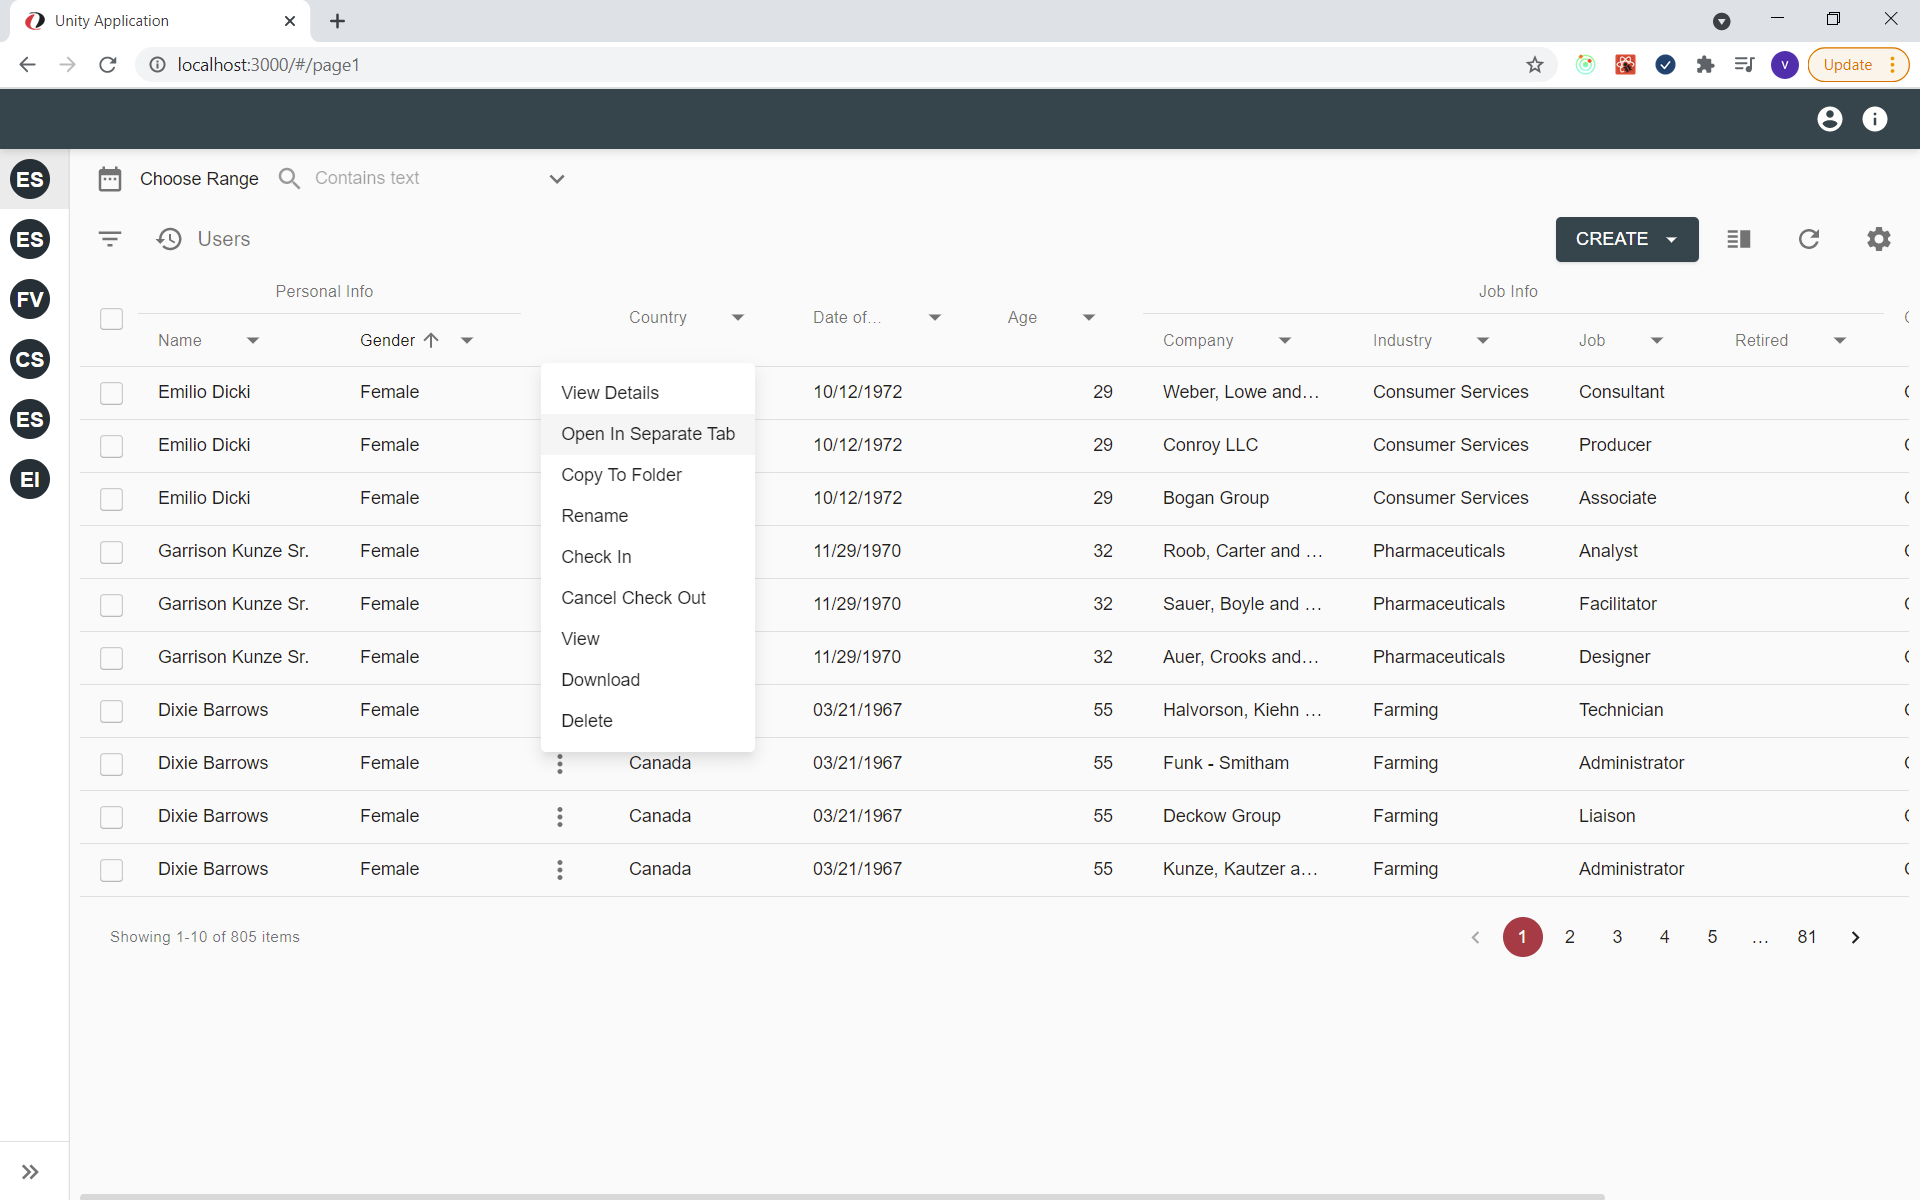
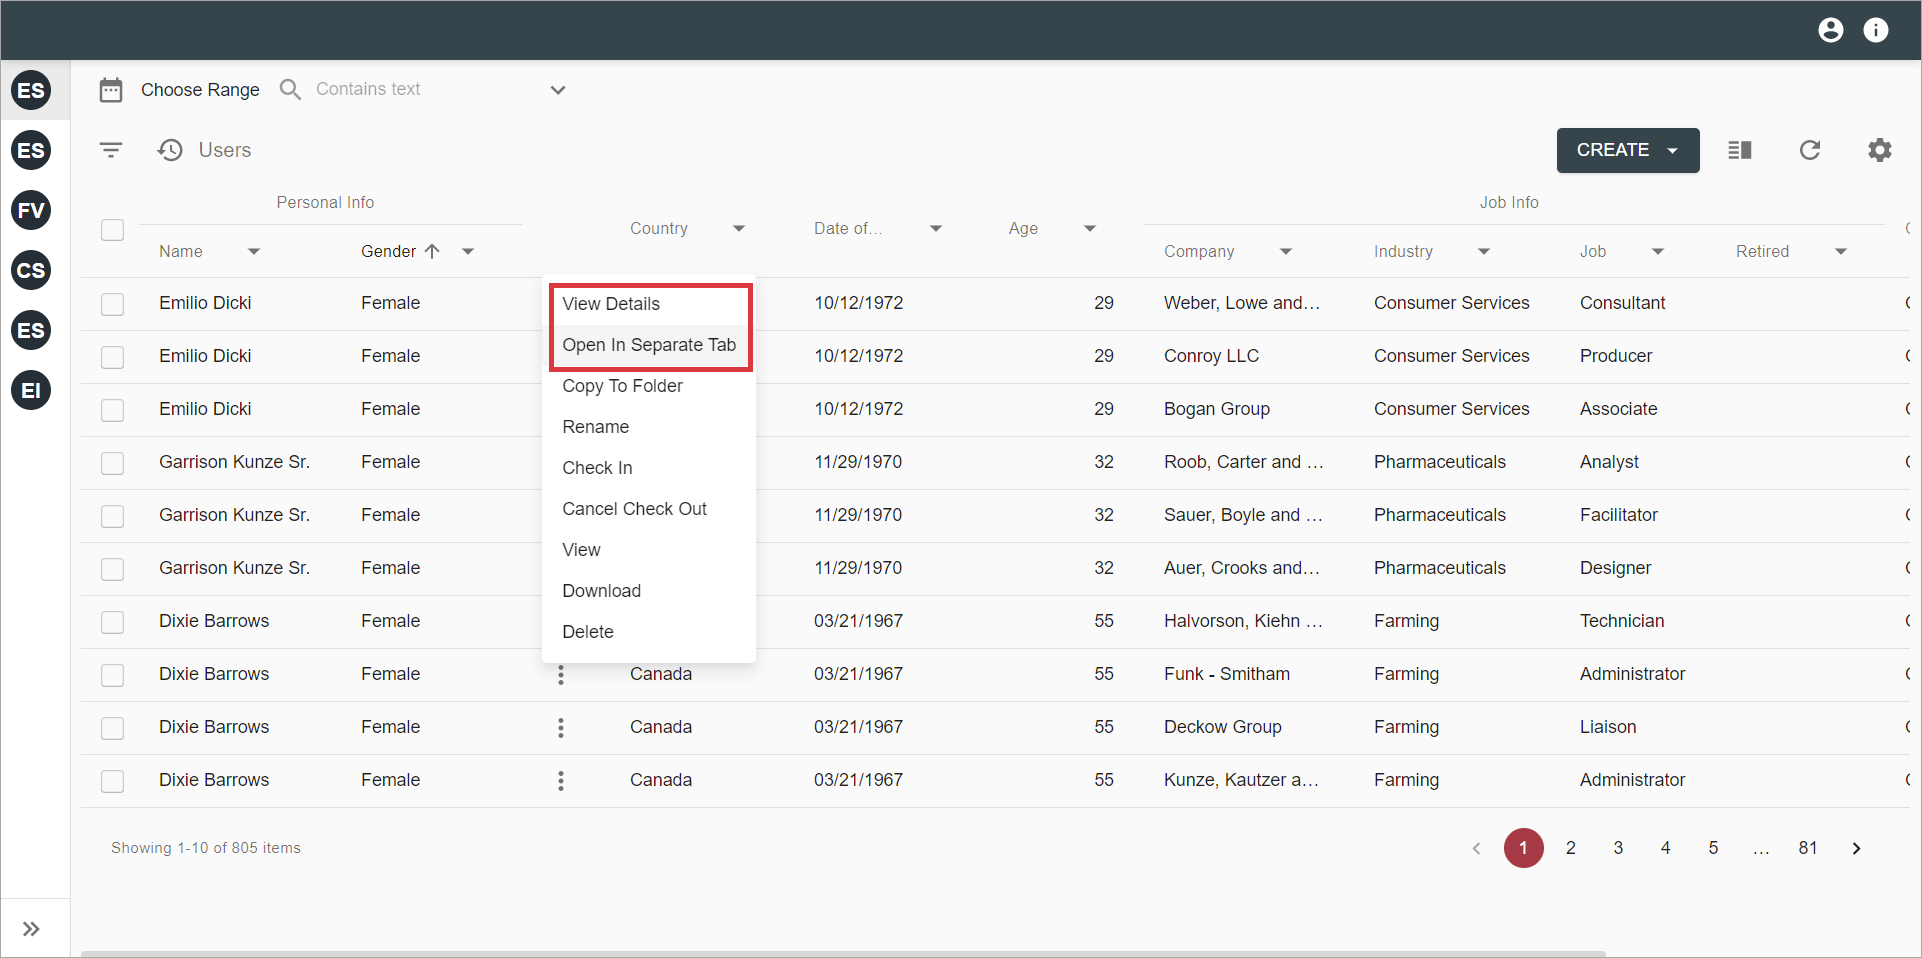
Improving content and images

diff --git a/_docs/unity-react/features/document-management/document-details.md b/_docs/unity-react/features/document-management/document-details.md
@@ -19,26 +19,28 @@ actions depends on configuration and data provider
 
 # How to Use Document Details
 
-To open Document Details:
+To open Document Details from the grid:
 
-- In the grid click on Document Title, or click a dropdown icon in the document row and select `Edit` action:
+- Click on Document Title
+- Or open actions menu by clicking on the vertical ellipse icon consisting of three dots in the grid row and select `View Details` action from dropdown list
+- Or open actions menu and select `Open in Separate Tab` action from dropdown list to open Document Details in separate browser tab:
 
-    ![Context-menu](document-details/images/view-action-context-menu.png)
-
-- `Open in separate tab` action provides an alternative way to open the document details (or details of other resources like a case or a workitem):
-  
     ![Open in separate action](document-details/images/open-in-separate-tab.png)
 
-- `Document Details` view will be opened in a modal or separate tab:
+`Document Details` view will be opened:                            
 
-    ![View document action](document-details/images/view-document-action.png)
+   ![View document action](document-details/images/view-document-action.png)
+    
+|**Note:** When clicking on Document Title, [Default Action](https://docs.intellectivelab.com/docs/unity-react/components/grid/default-action/) is performed. It can be configured to perform another action.  
 
-`Document Properties` tab is shown by default, user can switch to `Versions`.
+`Document Properties` tab is shown by default. This tab displays metadata, which can be modified by an authorized user. 
+
+User can switch to `Versions` tab. The Version History tab displays information on each version of the file. Each time the file is modified, the version capable repositories create a new version of the file to track the changes made. 
+From this tab, you can see and interact with the current version of the document, as well as all prior versions.
 
 Edit available fields and save changes by clicking `Save` button.
 
 # Configuration
 
-[Document details action configuration](../../configuration/actions/document-details.md)
-
-[Open In Separate Tab action configuration](../../configuration/actions/open-in-separate-tab.md)
+[Document details action configuration](../../configuration/actions/document-details.md)  
+[Open in separate tab action configuration](../../configuration/actions/open-in-separate-tab.md)  

diff --git a/_docs/unity-react/configuration/actions/open-in-separate-tab.md b/_docs/unity-react/configuration/actions/open-in-separate-tab.md
@@ -3,7 +3,11 @@ title: Open In Separate Tab Action Configuration
 layout: docs
 category: Unity 7
 ---
-[Open In Separate Tab feature description](../../features/document-management/document-details.md#how-to-use-document-details)
+[Open Document Details in Separate Tab feature description](../../features/document-management/document-details.md#how-to-use-document-details)  
+[Open Case Details in Separate Tab feature description](../../features/case-management/case-details.md#how-to-use-case-details)  
+[Open Workitem Details in Separate Tab feature description](../../features/process-management/workitem-details.md#how-to-use-workitem-details)  
+
+Open In Separate Tab action configuration is the same for documents, cases and workitems.
 
 Open In Separate Tab Action configuration section should be added to the Unity System XML file. An example:
 

diff --git a/_docs/unity-react/features/process-management/workitem-details.md b/_docs/unity-react/features/process-management/workitem-details.md
@@ -1,0 +1,22 @@
+---
+title: Workitem Details Feature
+layout: docs
+category: Unity 7
+---
+
+# Description
+
+*content to be added*
+
+# How to Use Workitem Details
+
+To open Workitem Details from the grid:
+
+- Click on Workitem Title
+- Or open actions menu by clicking on the vertical ellipse icon consisting of three dots in the grid row and select `View Details` action from dropdown list
+- Or open actions menu and select `Open in Separate Tab` action from dropdown list to open Workitem Details in separate browser tab
+
+# Configuration
+
+Workitem details action configuration  *link to be added*  
+[Open in separate tab action configuration](../../configuration/actions/open-in-separate-tab.md)

diff --git a/_docs/unity-react/features/case-management/case-details.md b/_docs/unity-react/features/case-management/case-details.md
@@ -1,0 +1,21 @@
+---
+title: Case Details Feature
+layout: docs
+category: Unity 7
+---
+# Description
+
+*content to be added*
+
+# How to Use Case Details
+
+To open Case Details from the grid:
+
+- Click on Case Title
+- Or open actions menu by clicking on the vertical ellipse icon consisting of three dots in the grid row and select `View Details` action from dropdown list
+- Or open actions menu and select `Open in Separate Tab` action from dropdown list to open Case Details in separate browser tab
+
+# Configuration
+
+Case details action configuration  *link to be added*  
+[Open in separate tab action configuration](../../configuration/actions/open-in-separate-tab.md)

diff --git a/_docs/unity-react/features/process-management.md b/_docs/unity-react/features/process-management.md
@@ -3,6 +3,7 @@ title: Unity Features - Process Management
 layout: docs
 category: Unity 7
 ---
+- [Workitem details](process-management/workitem-details.md)
 - Personal in-basket
 - Role in-basket
 - View information about the work item and information about the associated case

diff --git a/_docs/unity-react/features/case-management.md b/_docs/unity-react/features/case-management.md
@@ -12,3 +12,4 @@ category: Unity 7
 - [Split a case](case-management/split-case.md)  
 - [Delete a case](case-management/delete-case.md)  
 - [Open case by URL](case-management/open-case-by-url.md)  
+- [Case details](case-management/case-details.md)
